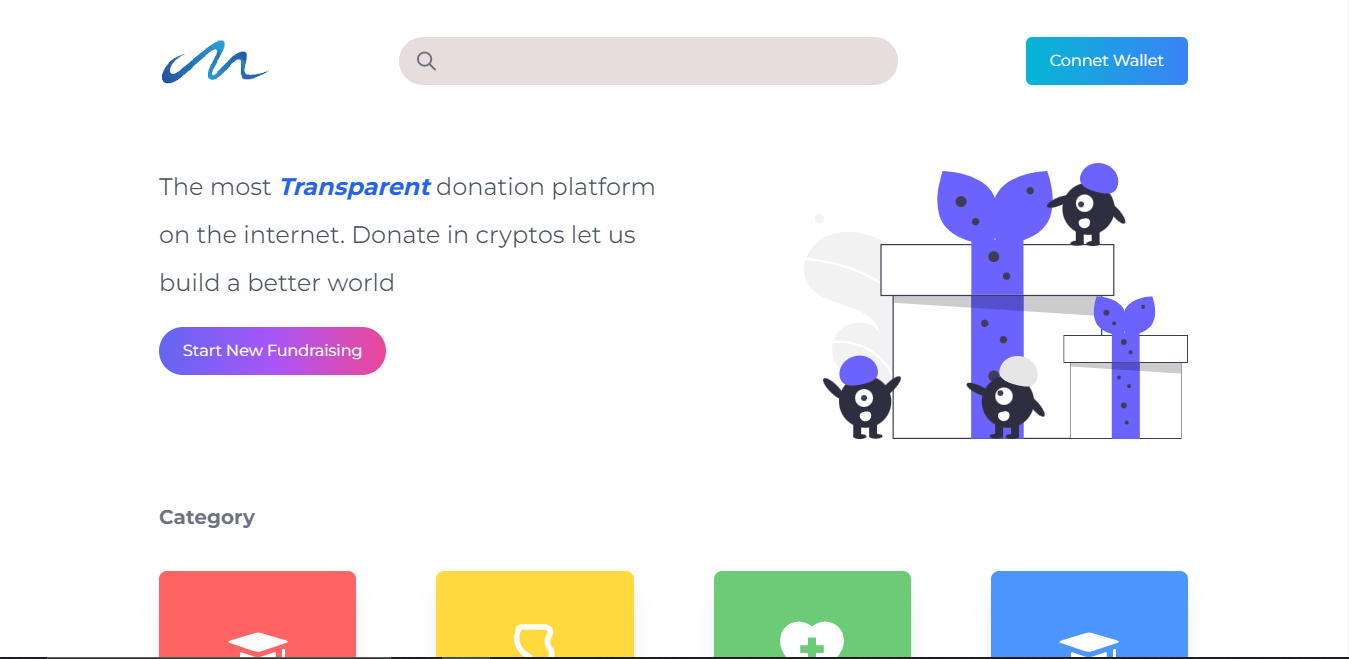
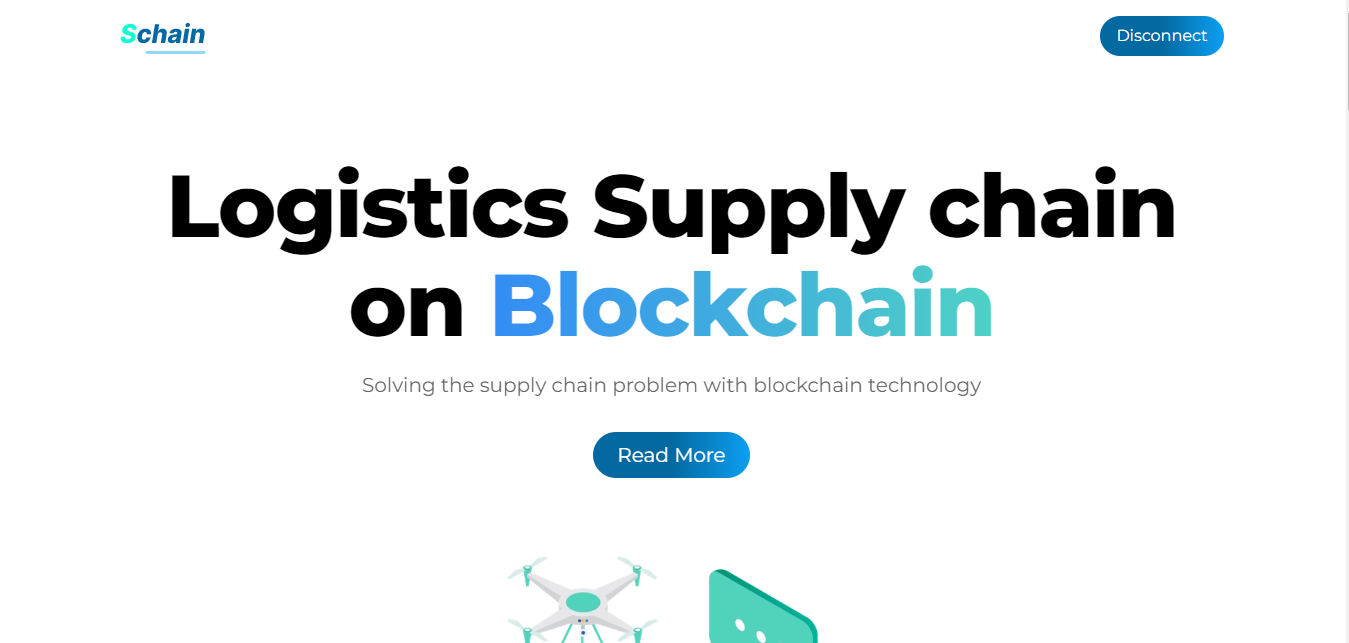
schain ui

diff --git a/components/partials/About.jsx b/components/partials/About.jsx
@@ -24,7 +24,32 @@ function Terms() {
           <div className="max-w-3xl mx-auto space-y-4  pb-12 md:pb-20">
             <h2 className="h2 mb-4 text-2xl text-center">About schain</h2>
 
-            <p>Welcome to Schain!</p>
+            <p>
+              Welcome to Schain`, your number one platform to track your order
+              along the supply chain process on the blockchain.
+            </p>
+            <p>
+              We're dedicated to giving you the very best of your order, with
+              focus from time of order and every other updates about the order
+              as it moves along the processes of the supply chain all happening
+              on the blockchain.
+            </p>
+            <p>
+              Founded in 2022, by Sympodium, Schain` has come a long way from
+              its beginnings in Ghana. When Albert, Sarkodie and Brilliant first
+              started out with Schain, the passion for solving supply chain
+              problems with blockchain drove them to undertake several
+              researches so that Schain can offer the very best services it does
+              now along the supply chain of many organizations here in Ghana and
+              abroad and we are thrilled that we are able to turn our passion
+              into such a revolutionary solution in supply chain.
+            </p>
+
+            <p>
+              We hope you enjoy the services of the platform as much as we enjoy
+              offering them to you. If you have any questions or comments,
+              please don't hesitate to contact us.{" "}
+            </p>
           </div>
         </div>
       </div>

diff --git a/components/partials/FeaturesBlocks.jsx b/components/partials/FeaturesBlocks.jsx
@@ -24,8 +24,10 @@ function FeaturesBlocks() {
           <div className="max-w-3xl mx-auto text-center pb-12 md:pb-20">
             <h2 className="h2 mb-4">How Simple it works</h2>
             <p className="text-xl text-gray-600">
-              The Supply Chain is the movement of materials as they flow from
-              their source to the end customer
+              We're dedicated to giving you the very best of your order, with
+              focus from time of order and every other updates about the order
+              as it moves along the processes of the supply chain all happening
+              on the blockchain.
             </p>
           </div>
 
@@ -79,7 +81,7 @@ function FeaturesBlocks() {
                 Testing
               </h4>
               <p className="text-gray-600 text-center">
-                The products are pushed on the quality testing
+                The products are pushed on for quality testing
               </p>
             </div>
 

diff --git a/components/partials/Testimonials.jsx b/components/partials/Testimonials.jsx
@@ -48,8 +48,8 @@ function Testimonials() {
               Accepted by over 500 cryptocurrencies all over the world
             </h2>
             <p className="text-xl text-gray-600" data-aos="zoom-y-out">
-              Order payment can be made in any cryptocurrency of the users
-              choice
+              Payment for an order can be made in any cryptocurrency of the
+              user's choice
             </p>
           </div>
 

diff --git a/README.md b/README.md
@@ -5,15 +5,15 @@
     <img src="public/images/logo.svg" alt="Logo" width="80" height="80">
   </a>
 
-  <h3 align="center">myDonate</h3>
+  <h3 align="center">schain</h3>
 
   <p align="center">
-   A web3 transparent donation application 
+   A supply chain management application on a blockchain
     <br />
     <a href="https://github.com/othneildrew/Best-README-Template"><strong>Explore the docs »</strong></a>
     <br />
     <br />
-    <a href="https://mydonate.netlify.app">View App</a>
+    <a href="https://schain.vercel.app/">View App</a>
     
   </p>
 </div>
@@ -48,7 +48,34 @@
 
 <img src="public/images/app.png" alt="Logo" width="" >
 
-Making use of blockchain technology, we have created a crypto donation platform. where users can start a fundraising and others can donate to the application.
+Welcome to Schain`, your number one platform to track your order along the supply chain process on the blockchain.
+
+We're dedicated to giving you the very best of your order, with focus from time of order and every other updates about the order as it moves along the processes of the supply chain all happening on the blockchain.
+
+Founded in 2022, by Sympodium, Schain` has come a long way from its beginnings in Ghana. When Albert, Sarkodie and Brilliant first started out with Schain, the passion for solving supply chain problems with blockchain drove them to undertake several researches so that Schain can offer the very best services it does now along the supply chain of many organizations here in Ghana and abroad and we are thrilled that we are able to turn our passion into such a revolutionary solution in supply chain.
+
+This is application is having six (6) users:
+
+- customer : A regular customer that can make order(s) on the application, add reviews on an order and also cancel an order.
+- Administrator: User in charge of assigning roles to other users in the suppy chain processes.
+  To use the admin acount you have to use the following credentials: username:"admin" and password:
+  "63CkBcD{B),M;h2>"
+- Manager: Approves orders to be set for production
+- Manufacturer: Start production of order once approved by the manager
+- Tester: Tests the product and update the state to the transport department
+- Transporter: The department in charge of dispatching orders to customers.
+
+## Below are the steps to add an order:
+
+1. Connet to the app with your wallet.
+2. Click on the "add order button" and fill in the details of the order
+3. Click on the order to view the supply chain process or the state of your order.
+
+## Below are the steps to add an order:
+
+1. Connet to the app with your wallet.
+2. Click on the "add order button" and fill in the details of the order
+3. Click on the order to view the supply chain process or the state of your order.
 
 ### Built With
 
